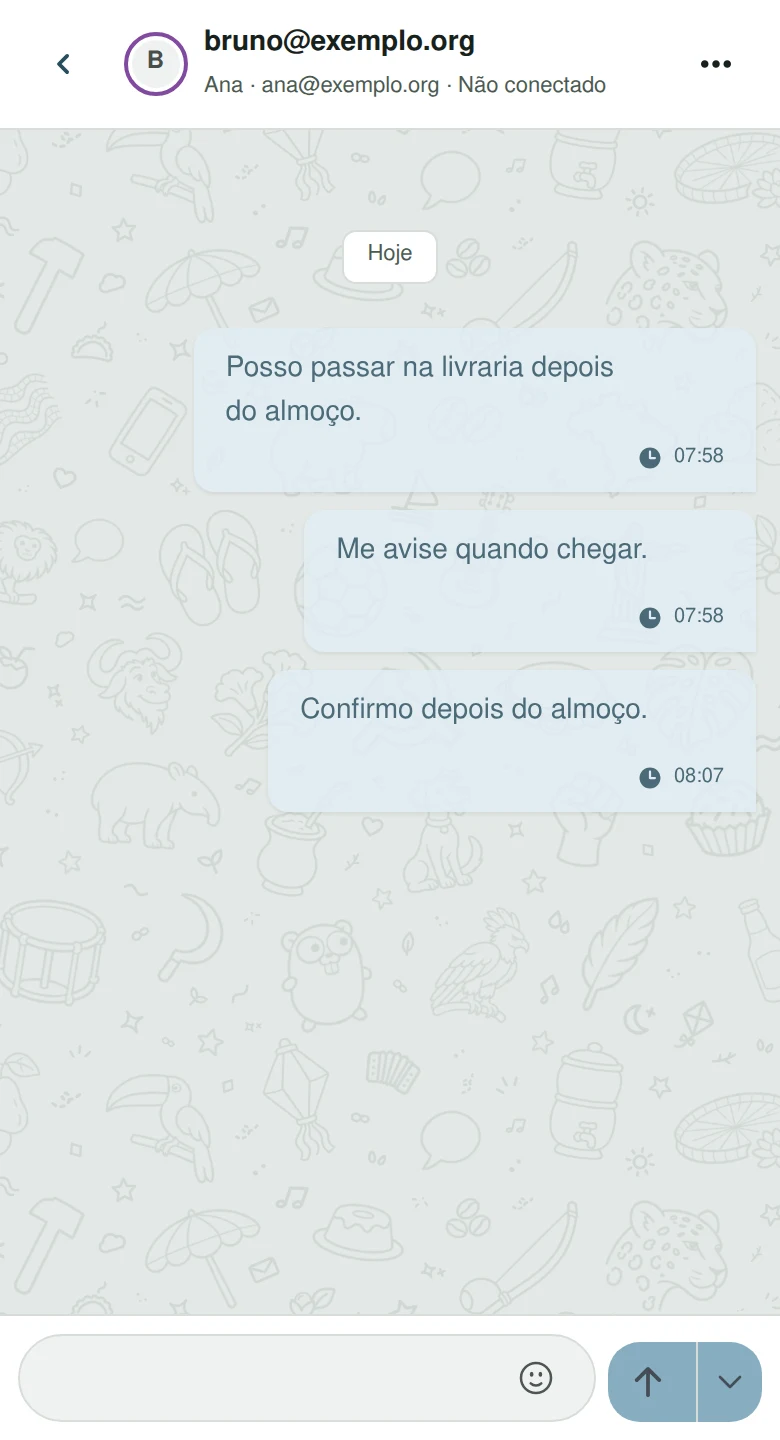
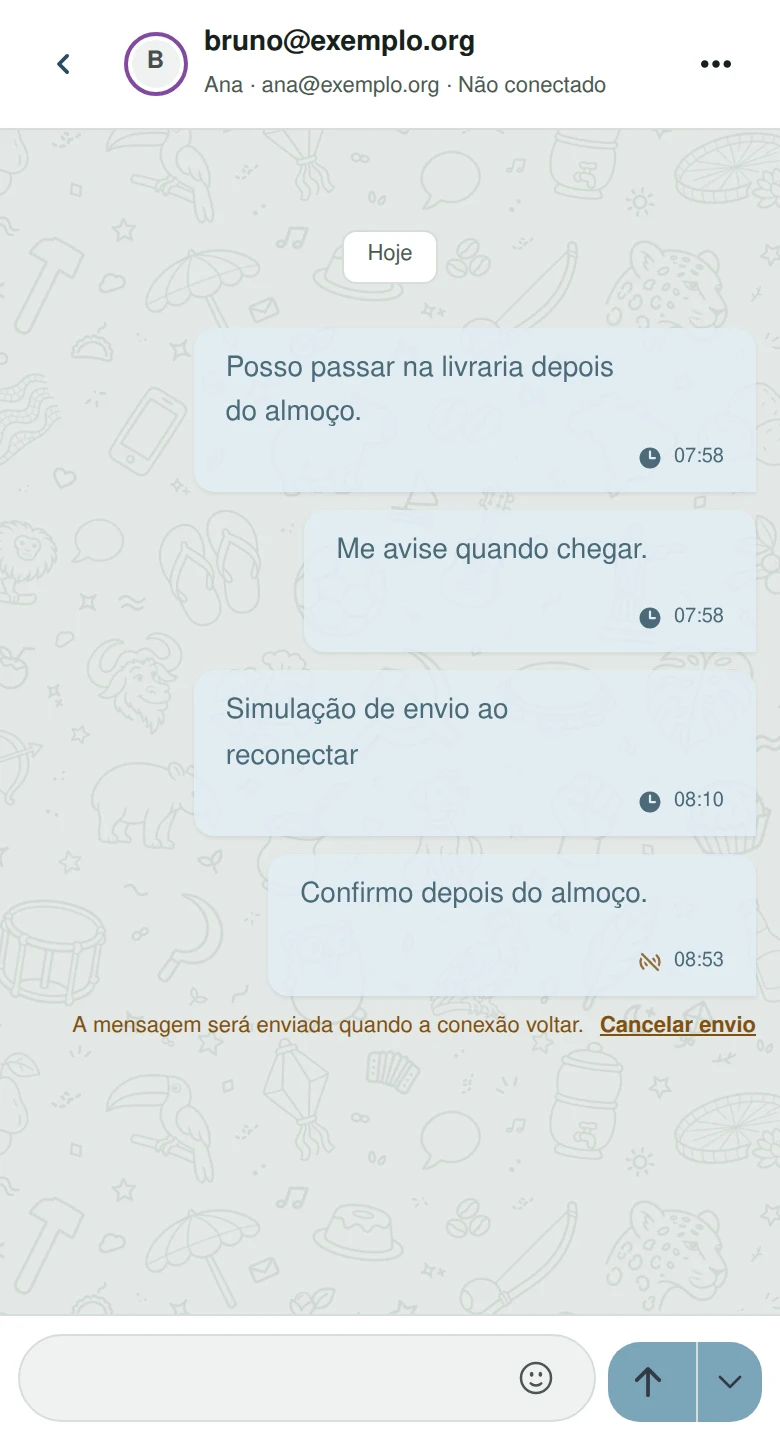
Documentar como cancelar um envio sem conexão

diff --git a/content/docs/manual/index.md b/content/docs/manual/index.md
@@ -382,12 +382,16 @@ pelo cartão ou pelo menu de ações em **Mídia**.
 Disponível na versão em desenvolvimento, posterior à rc.30 de **Baixar**.
 
 Se a conversa já estiver aberta quando a conexão cair, selecione **Enviar**
-para guardar a mensagem neste navegador. O relógio ao lado do horário da
-mensagem indica **Aguardando conexão**. O Oiê tenta enviá-la quando a
+para guardar a mensagem neste navegador. O ícone de sinal cortado ao lado do
+horário indica **Aguardando conexão**. O Oiê tenta enviá-la quando a
 conexão voltar e o aplicativo estiver aberto neste navegador. Você pode
 reabri-lo pela lista de conversas.
 
-[![Mensagem com um relógio ao lado do horário, indicando que o envio aguarda conexão.](imagens/envio-sem-conexao.webp)](imagens/envio-sem-conexao-original.webp)
+Enquanto a mensagem estiver aguardando conexão, selecione **Cancelar envio**
+abaixo dela ou no menu **Ações da mensagem**. A mensagem volta ao rascunho,
+onde você pode editar e enviar de novo.
+
+[![Mensagem com um ícone de sinal cortado, um aviso de conexão e a ação Cancelar envio.](imagens/envio-sem-conexao.webp)](imagens/envio-sem-conexao-original.webp)
 
 Se aparecer **Verificar e tentar novamente**, use essa ação na mensagem. Se
 o navegador não conseguir guardar a mensagem, o texto continua disponível

diff --git a/README.md b/README.md
@@ -120,7 +120,7 @@ balão foram conferidos na [revisão 96ca2c6 do Oiê](https://github.com/araihu/
 As capturas em pt-BR usam uma conversa fictícia e áudio de teste.
 
 A seção **Enviar sem conexão** foi conferida na
-[revisão de desenvolvimento 995d061 do Oiê](https://github.com/araihu/oie/tree/995d061486fad3c89f23d3b66145e3201b91d510),
+[revisão de desenvolvimento 79dcbde do Oiê](https://github.com/araihu/oie/tree/79dcbdeeefca7a939c75e9353df77393bd9ac19d),
 posterior à rc.30. A captura mostra uma conversa fictícia em pt-BR.
 
 ### Referência do banco de dados
